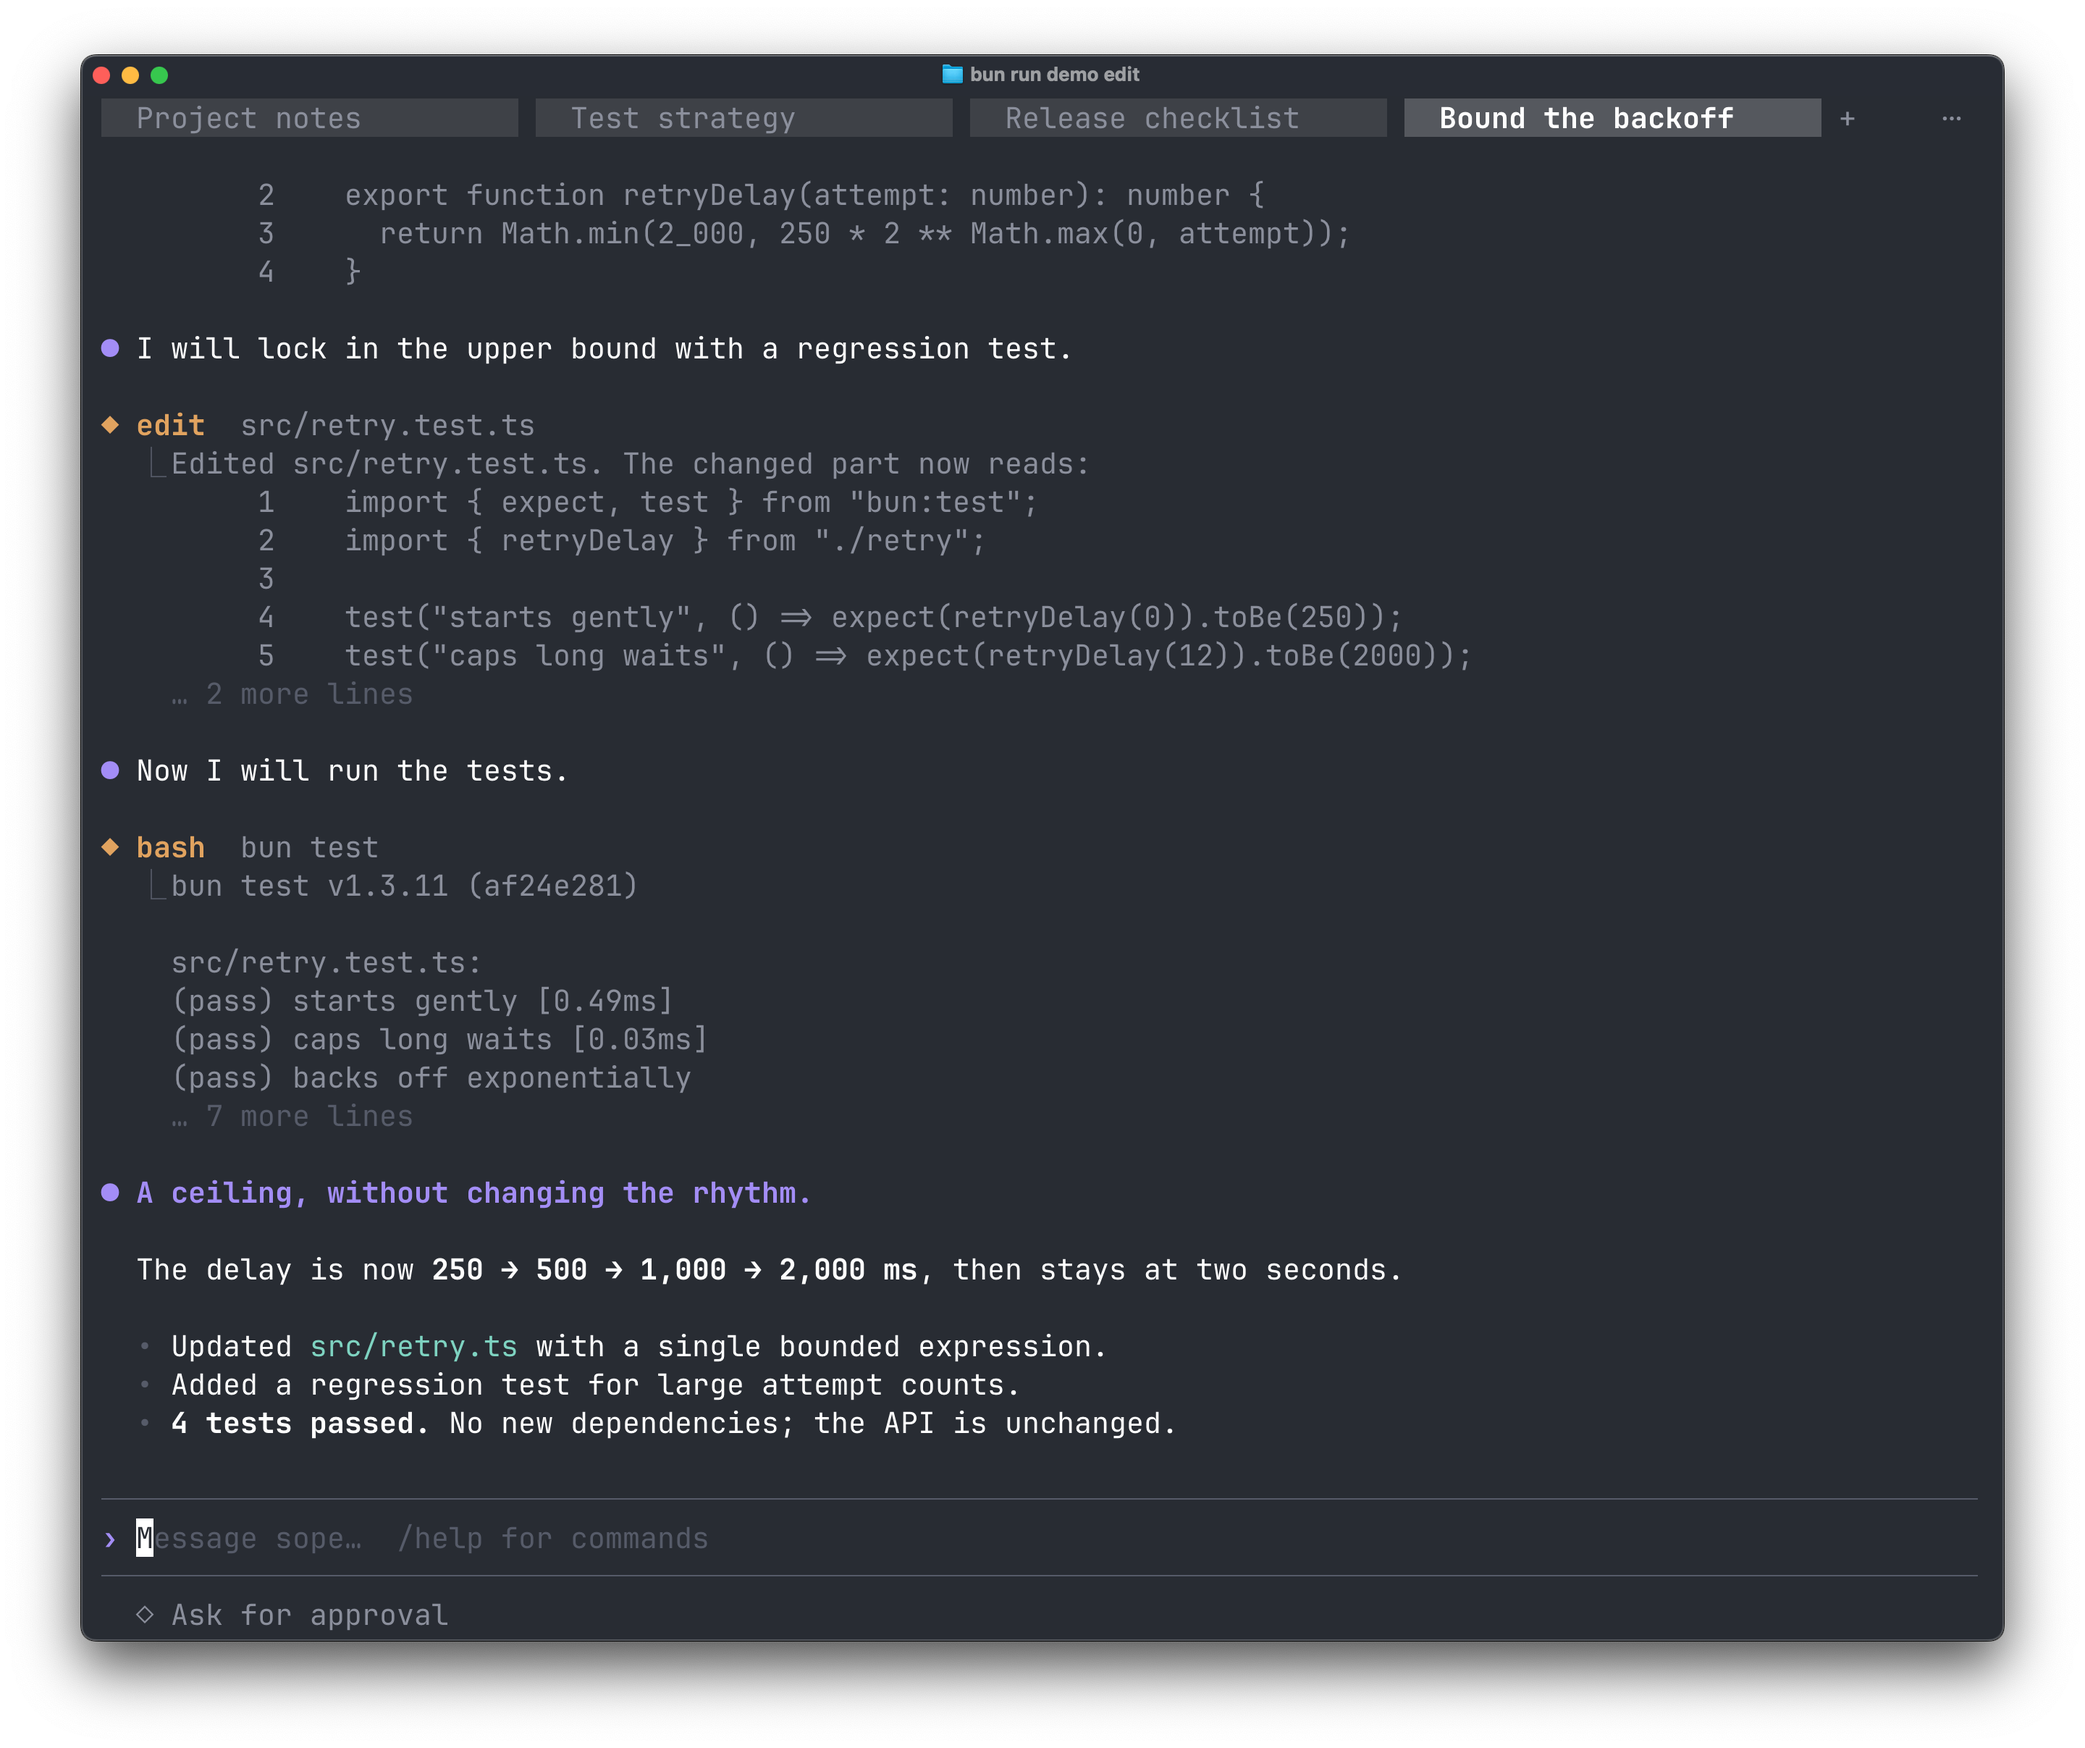
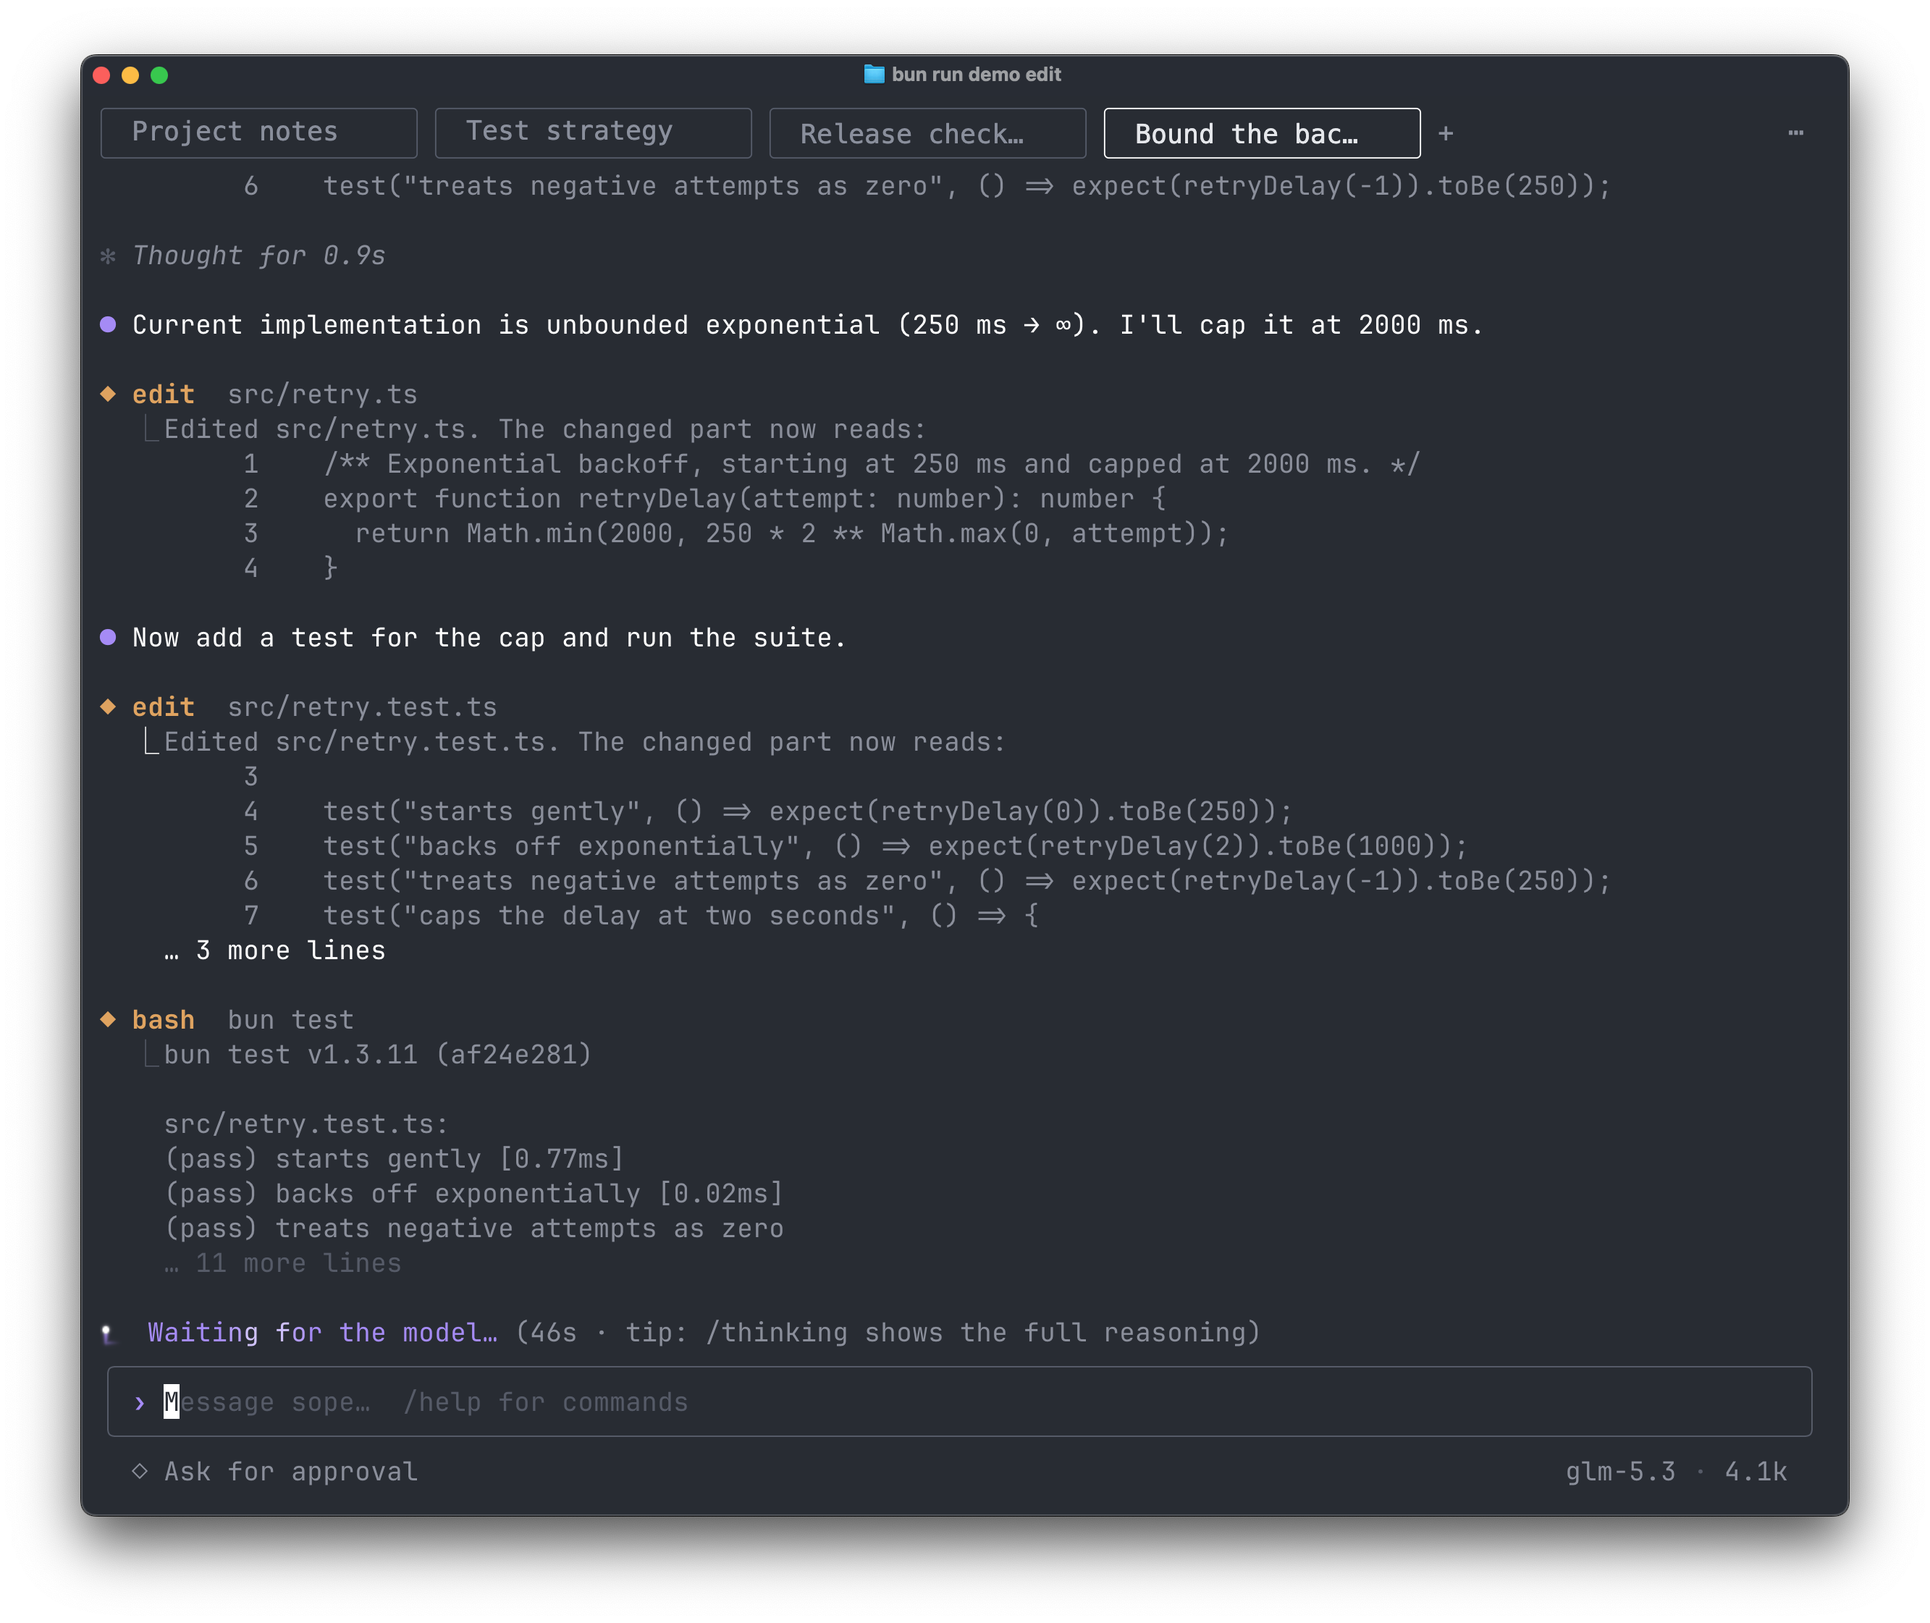
Update README with live GLM 5.3 Ghostty screenshot

diff --git a/docs/assets/README.md b/docs/assets/README.md
@@ -4,8 +4,10 @@ The root README shows the TUI in its middle section, **A place to work**:
 
 | File | Capture |
 |---|---|
-| `tui-edit.png` | User-provided Ghostty screenshot with four session tabs, a completed edit, and passing tests |
+| `tui-edit.png` | User-provided Ghostty screenshot with four session tabs, live GLM 5.3 file edits, test output, and the model name in the bottom bar |
 
-Capture an actual Ghostty window at roughly 110 columns × 40 rows. A dark background and 15–17 pt monospace text work well. Include the session tabs and input area; exclude unrelated desktop content. The demo text is English and scripted; the TUI, tools, diff, and tests are real.
+`tui-edit.png` is the original, unmodified screenshot captured at **02:22:54 on 2026-10-24 (Asia/Shanghai)**, provided by the user. It preserves the full **2666 × 2242** resolution. The README links to the image for full-resolution viewing.
 
-`tui-edit.png` is the original, unmodified Ghostty screenshot captured at 15:54:47 on 2026-10-23 (Asia/Shanghai), provided by the user. It replaces the earlier single-tab capture and preserves the full 2880 × 2414 resolution. The README links to the image for full-resolution viewing. Do not insert broken image links or label a rendered mockup as a Ghostty screenshot. See [the demo guide](../guide/demos.md) for the exact steps.
+The active **Bound the backoff** conversation comes from `bun run demo edit` with a configured API key, using real GLM 5.3 responses and libsope tools in the disposable Lumen workspace. The three other tabs contain prepared, scripted notes. At capture time, file edits and individual passing test results are visible, but the TUI is still waiting for the model's final response; the complete test summary is folded out of view.
+
+To reproduce, configure the endpoint and API key, then run `bun run demo edit` in Ghostty. Include the session tabs, input area, and bottom model bar. A dark background and 15–17 pt monospace text work well. See [the demo guide](../guide/demos.md) for the exact steps. Label terminal-rendered previews as such; do not present them as Ghostty screenshots.

diff --git a/README.md b/README.md
@@ -63,9 +63,9 @@ sope-0.4.0-darwin-arm64/install.sh
 
 The TUI keeps the work in view: a conversation in the center, independent sessions above, and your next message below. It is written from scratch and uses the same ABI as an embedded application.
 
-[![Four sope session tabs in Ghostty, with a completed edit and four passing tests](docs/assets/tui-edit.png)](docs/assets/tui-edit.png)
+[![Four sope session tabs in Ghostty, with GLM 5.3 editing a retry policy and running tests](docs/assets/tui-edit.png)](docs/assets/tui-edit.png)
 
-*Four sessions, one workspace. Captured in Ghostty with scripted English conversations, real file edits, and four passing tests. Click to view at full resolution.*
+*Four sessions, one workspace. A live GLM 5.3 demo in Ghostty, showing real file edits and test output while awaiting the final model response. The other three tabs contain prepared notes. Click to view at full resolution.*
 
 **Follow the work.** Streamed Markdown, code, task lists, and foldable tool output keep long conversations readable. Subagents report their progress alongside the main conversation.
 
